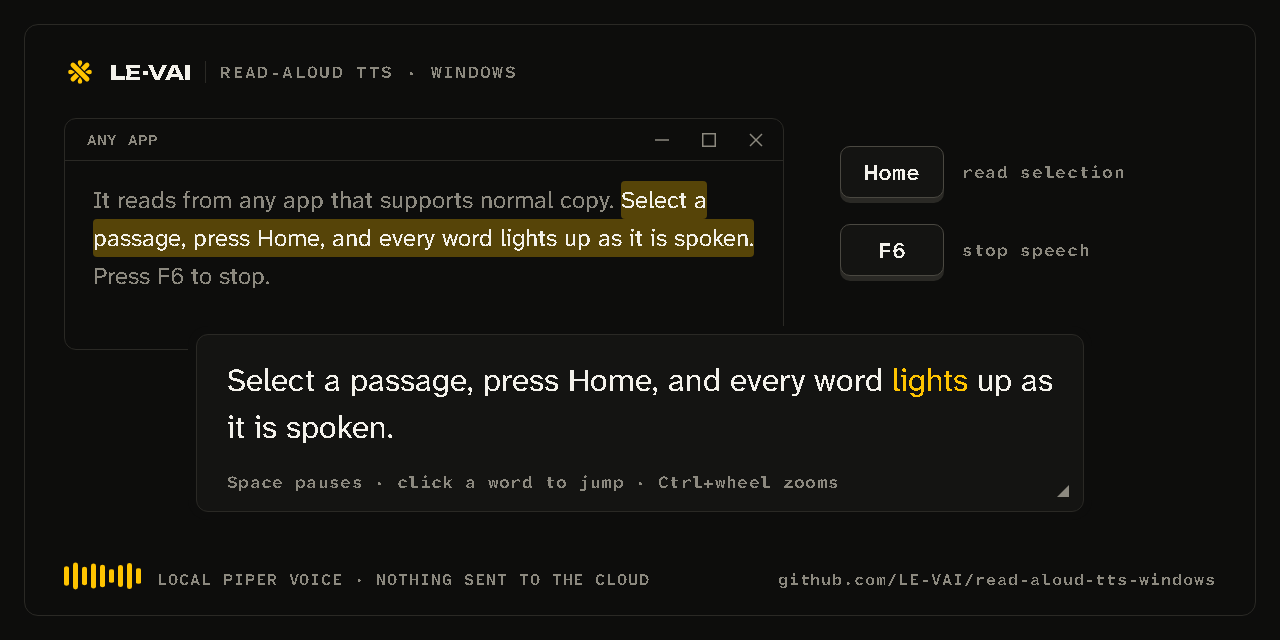
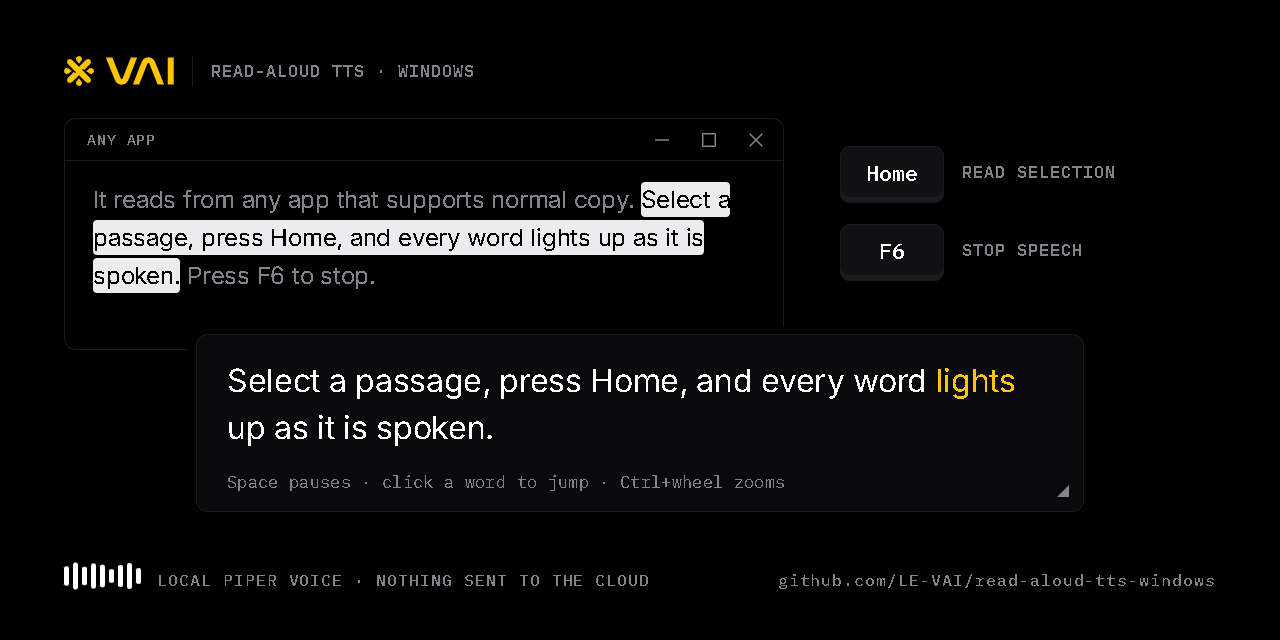
Hero loop and social card in VAI identity v2: black ground, Inter and IBM Plex Mono, the v2 lockup, yellow only on the signal (seam re-proven)

diff --git a/README.md b/README.md
@@ -8,7 +8,7 @@
 <p align="center">
   <picture>
     <source media="(prefers-reduced-motion: reduce)" srcset="docs/assets/hero-poster.png">
-    <img src="docs/assets/hero-loop.webp" width="800" alt="An app window holds a selected passage beside two keys, Home to read and F6 to stop. Below it, a reading panel shows the passage with one word in amber, and the amber moves word by word as the text is spoken while a level meter pulses. F6 is pressed mid-sentence and the panel disappears, leaving the selection in place. Home is pressed, the panel returns, and the reading starts again from the first word.">
+    <img src="docs/assets/hero-loop.webp" width="800" alt="An app window holds a selected passage beside two keys, Home to read and F6 to stop. Below it, a reading panel shows the passage with one word in yellow, and the yellow moves word by word as the text is spoken while a level meter pulses. F6 is pressed mid-sentence and the panel disappears, leaving the selection in place. Home is pressed, the panel returns, and the reading starts again from the first word.">
   </picture>
 </p>
 <p align="center"><sub>A 5-second loop. It plays once and rests, and shows a still frame if you prefer reduced motion. <a href="https://le-vai.github.io/LE-VAI/loops/#read-aloud-tts-windows">Watch it on repeat</a>.</sub></p>
